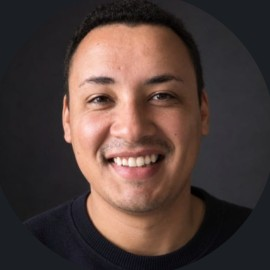
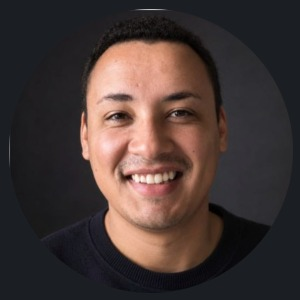
Ajusta o recorte da foto na pagina Sobre
Claude-Session: https://claude.ai/code/session_01RMokK8SdpydsowoQ8iK1K9

diff --git a/sobre/index.html b/sobre/index.html
@@ -37,7 +37,7 @@
 
   <main id="conteudo" class="page">
     <h1>Sobre mim</h1>
-    <img class="foto-sobre" src="../assets/img/elias.jpg" width="270" height="270" alt="Foto de Elias de Siqueira">
+    <img class="foto-sobre" src="../assets/img/elias.jpg" width="300" height="300" alt="Foto de Elias de Siqueira">
     <p>Sou Elias de Siqueira, profissional de TI com experiência em suporte e infraestrutura, do atendimento ao usuário à administração de Active Directory, Microsoft 365, Hyper-V e backups.</p>
     <p>Este blog é onde documento meus laboratórios de redes e sistemas. Cada post traz o cenário, a topologia, as configurações, os testes com as saídas reais e os problemas que apareceram até tudo funcionar.</p>
 
